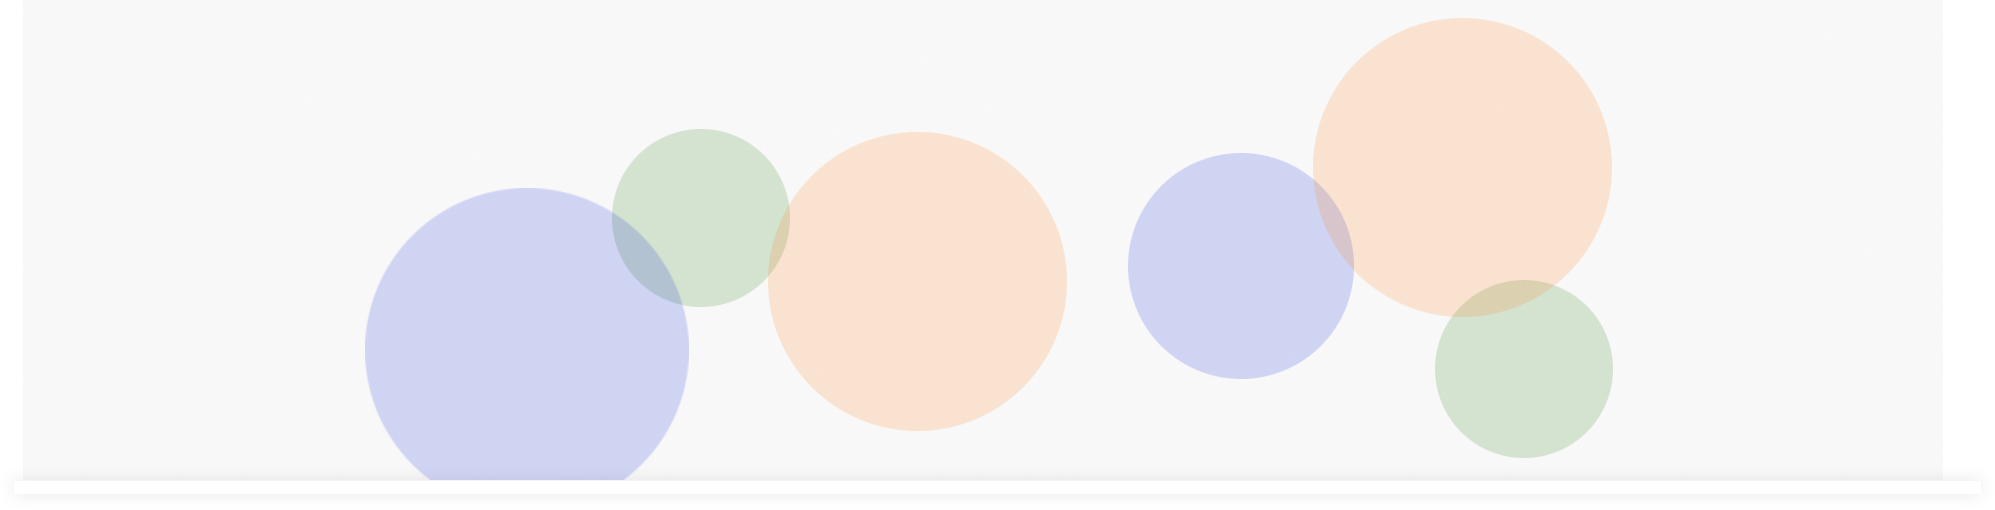
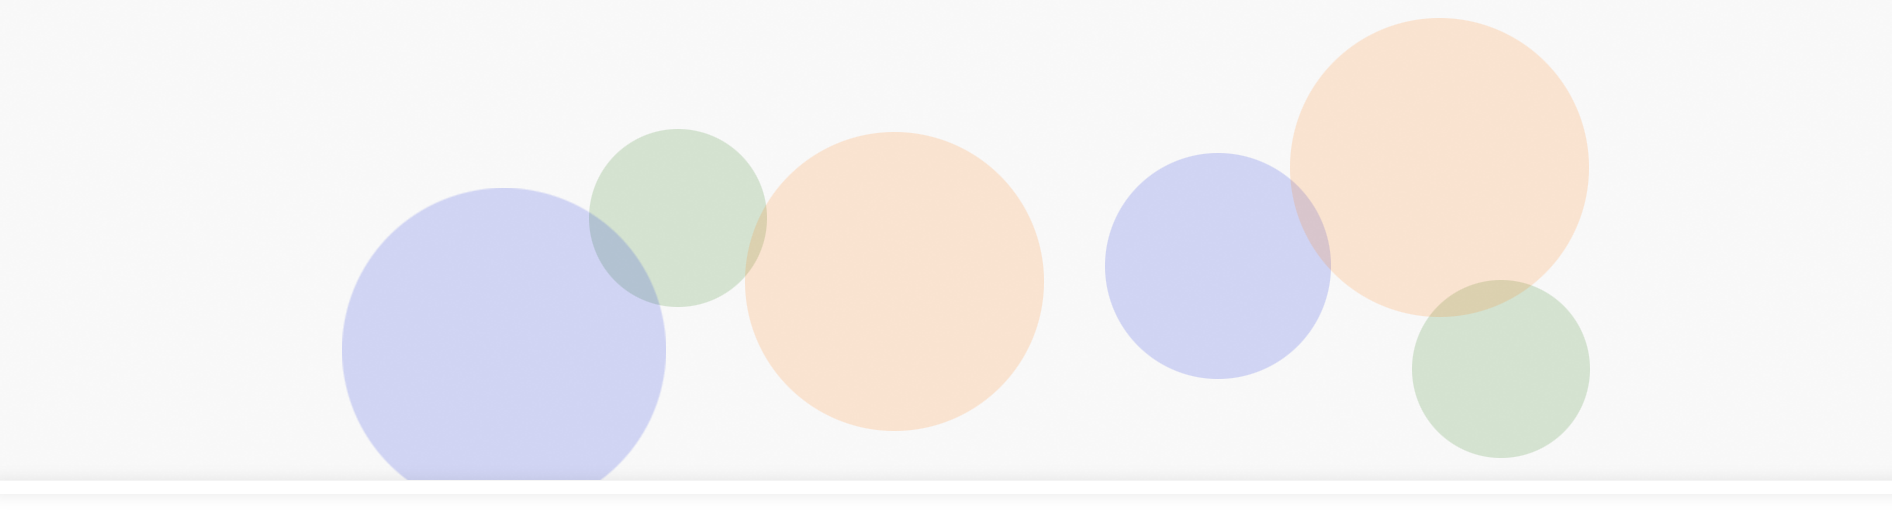
feat: create form for tel number

diff --git a/style.css b/style.css
@@ -60,5 +60,86 @@ body {
 }
 
 .form-container {
-  background: url('assets/images/background.png');
+  padding: 70px 0 92px 97px;
+  background: url('assets/images/background.png') no-repeat;
+  background-size: cover;
+}
+
+.form-block {
+  width: 358px;
+}
+
+.form {
+  display: flex;
+  flex-direction: column;
+  align-items: center;
+  height: 275px;
+  background-color: #9da3d7;  
+}
+
+.form-title {
+  margin: 0 0 15px;
+  text-align: center;
+  font-size: 2.4rem;
+  font-weight: bold;
+  letter-spacing: 1px;
+  color: #9da3d7;
+  text-transform: uppercase;
+}
+
+.form label {
+  margin: 20px;
+  font-size: 2rem;
+  letter-spacing: 1px;
+  color: #ffffff;
+  text-align: center;
+  text-transform: uppercase;
+}
+
+.form input, button {  
+  height: 49px;
+  border: none;
+}
+
+.form input {
+  width: 275px;
+  margin-bottom: 20px;
+  padding-left: 15px;
+  background-color: #ffffff;
+  outline: none;
+}
+
+.form input::-webkit-input-placeholder {
+  font-family: "Myriad Pro";
+  font-size: 2.4rem;
+  letter-spacing: 1px;
+  color: #767676;  
+}
+.form input::-moz-placeholder {
+  font-family: "Myriad Pro";
+  font-size: 2.4rem;
+  letter-spacing: 1px;
+  color: #767676;
+}
+.form input:-moz-placeholder {
+  font-family: "Myriad Pro";
+  font-size: 2.4rem;
+  letter-spacing: 1px;
+  color: #767676;
+}
+.form input:-ms-input-placeholder {
+  font-family: "Myriad Pro";
+  font-size: 2.4rem;
+  letter-spacing: 1px;
+  color: #767676;
+}
+
+.form button {
+  width: 290px;
+  background-color: #ffc087;
+  font-size: 2.4rem;
+  letter-spacing: 1px;
+  color: #000000;
+  text-transform: uppercase;
+  cursor: pointer;
 }

diff --git a/index.html b/index.html
@@ -15,7 +15,21 @@
         <li><a href="#">+7(499) 777-77-77</a></li>   
       </ul>
     </div>
-  </header>  
+  </header>
+  <main>
+    <div class="form-container">
+      <div class="wrapper">
+        <div class="form-block">
+          <p class="form-title">форма с кнопкой</p>
+          <form action="" class="form">
+            <label for="tel">оставь телефон и получи что-то офигенное</label>
+            <input type="tel" name="tel" placeholder="Введите номер">
+            <button type="submit">получить</button>
+          </form>
+        </div>
+      </div>
+    </div>
+  </main>
   <script src="script.js"></script>
 </body>
 </html>
